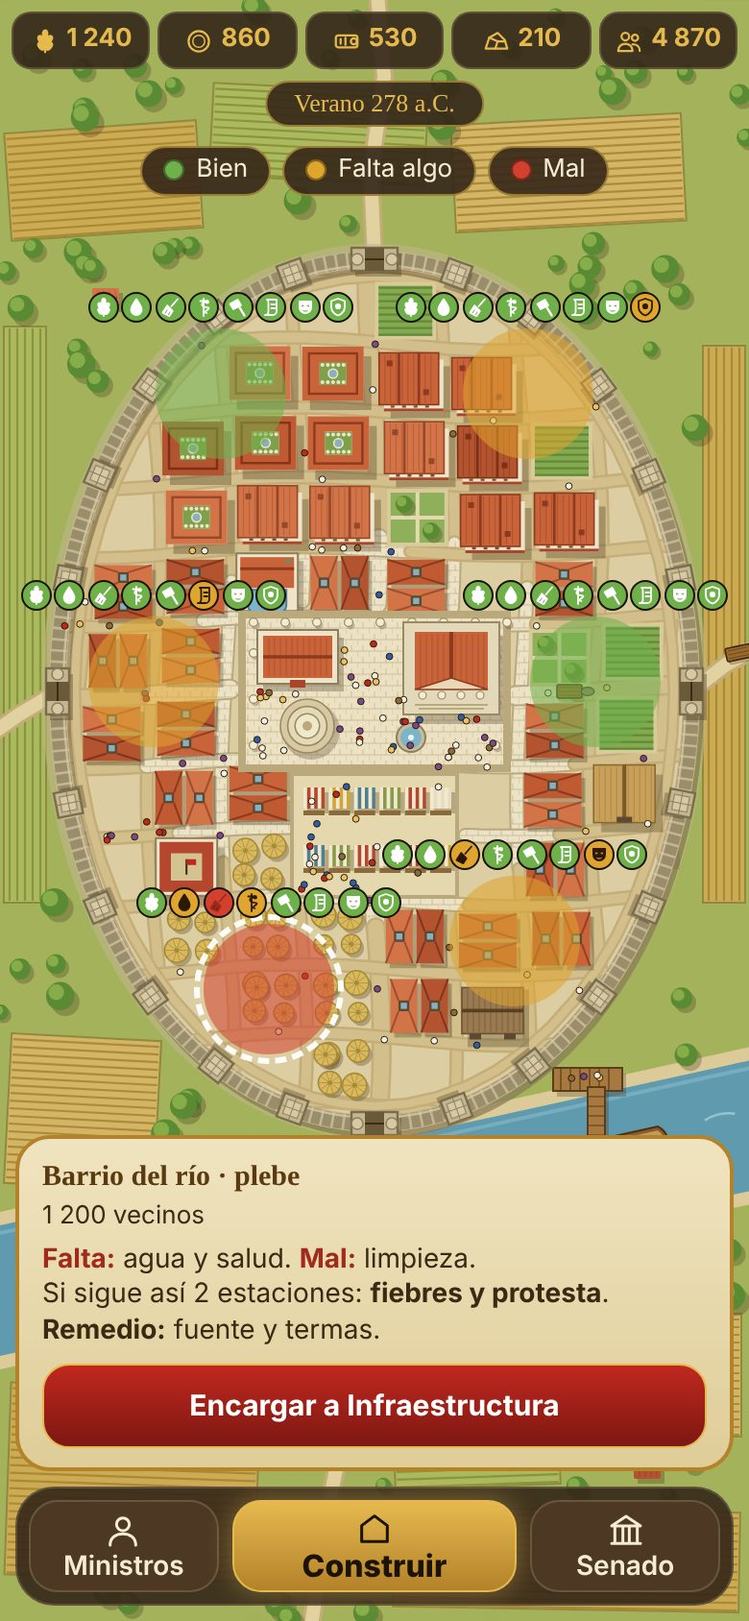
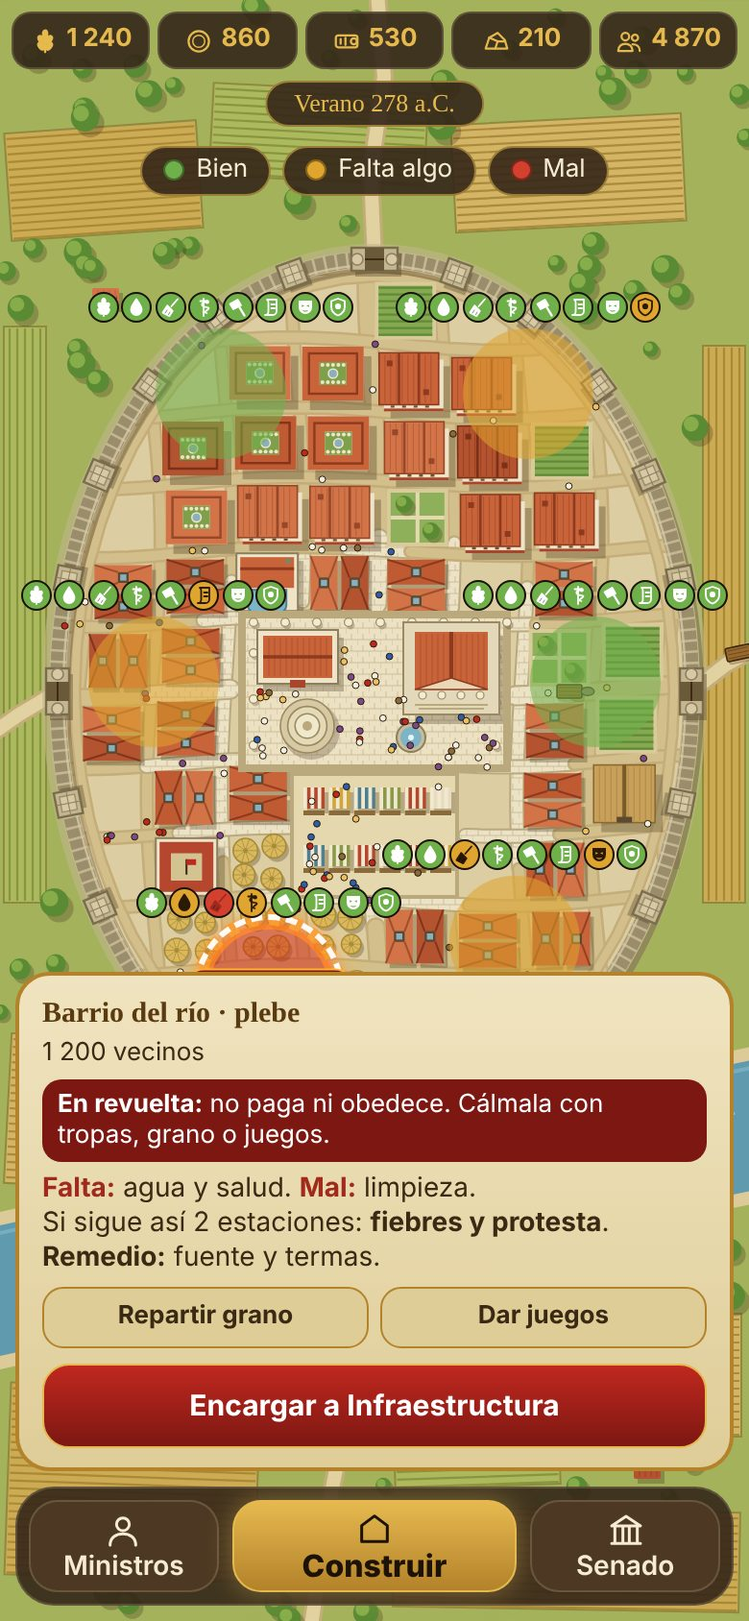
CD0b: estilo «3D real desde arriba» y revuelta (en curso)
Claude-Session: https://claude.ai/code/session_01QiKC379x4ZCv2Zx3uPswf5

Changed region(s): [[0.0, 0.5545, 0.9846, 0.8318], [0.9231, 0.8009, 0.9538, 0.8318]]

diff --git a/gobierno/maquetas/ciudad-nueva-concurso/maqueta/render.js b/gobierno/maquetas/ciudad-nueva-concurso/maqueta/render.js
@@ -1,0 +1,245 @@
+/* Estilo «Maqueta de museo»: la ciudad de ESCENA levantada en 3D con three.js (el de js/vendor), geometría por código.
+   Cámara cenital fija (mirando recta hacia abajo), perspectiva moderada: lo alto se ve de lado hacia los bordes.
+   Sol bajo con sombras. Casi todo va en InstancedMesh para pocas llamadas de dibujo. */
+import * as THREE from '../../../../js/vendor/three.module.min.js';
+
+const W = 390, H = 844;
+let sem = 4242; const R = () => (sem = sem * 16807 % 2147483647) / 2147483647;
+const rad = d => d * Math.PI / 180;
+
+/* ---------- geometrías de partida (todas con la base en y=0) ---------- */
+function malla(caras) { // caras: [[a,b,c,pista, uvA,uvB,uvC]] ; se orienta cada triángulo según su pista (normal hacia fuera)
+  const pos = [], uv = [];
+  for (const [a, b, c, n, ua, ub, uc] of caras) {
+    const e1 = [b[0] - a[0], b[1] - a[1], b[2] - a[2]], e2 = [c[0] - a[0], c[1] - a[1], c[2] - a[2]];
+    const nx = e1[1] * e2[2] - e1[2] * e2[1], ny = e1[2] * e2[0] - e1[0] * e2[2], nz = e1[0] * e2[1] - e1[1] * e2[0];
+    const flip = nx * n[0] + ny * n[1] + nz * n[2] < 0, t = flip ? [a, c, b] : [a, b, c], u = flip ? [ua, uc, ub] : [ua, ub, uc];
+    for (const p of t) pos.push(...p); for (const q of u) uv.push(...(q || [0, 0]));
+  }
+  const g = new THREE.BufferGeometry(); g.setAttribute('position', new THREE.Float32BufferAttribute(pos, 3)); g.setAttribute('uv', new THREE.Float32BufferAttribute(uv, 2)); g.computeVertexNormals(); return g;
+}
+const quad = (a, b, c, d, n, ua, ub, uc, ud) => [[a, b, c, n, ua, ub, uc], [a, c, d, n, ua, uc, ud]];
+// tejado a dos aguas: cumbrera a lo largo de x, ancho 1 (z), alto 1. Las faldas llevan uv para las hileras de teja.
+const GABLE = malla([
+  ...quad([-.5, 0, -.5], [.5, 0, -.5], [.5, 1, 0], [-.5, 1, 0], [0, 1, -1], [0, 0], [3, 0], [3, 1], [0, 1]),
+  ...quad([-.5, 0, .5], [-.5, 1, 0], [.5, 1, 0], [.5, 0, .5], [0, 1, 1], [0, 0], [0, 1], [3, 1], [3, 0]),
+  [[-.5, 0, -.5], [-.5, 1, 0], [-.5, 0, .5], [-1, 0, 0]], [[.5, 0, -.5], [.5, 0, .5], [.5, 1, 0], [1, 0, 0]]]);
+// tejado a cuatro aguas
+const HIP = malla([
+  ...quad([-.5, 0, -.5], [.5, 0, -.5], [.25, 1, 0], [-.25, 1, 0], [0, 1, -1], [0, 0], [3, 0], [2.4, 1], [.6, 1]),
+  ...quad([-.5, 0, .5], [-.25, 1, 0], [.25, 1, 0], [.5, 0, .5], [0, 1, 1], [0, 0], [.6, 1], [2.4, 1], [3, 0]),
+  [[-.5, 0, -.5], [-.25, 1, 0], [-.5, 0, .5], [-1, 1, 0], [0, 0], [.5, 1], [1, 0]], [[.5, 0, -.5], [.5, 0, .5], [.25, 1, 0], [1, 1, 0], [0, 0], [1, 0], [.5, 1]]]);
+// compluvio: tejado que se hunde hacia el hueco central (atrios y domus). Falda exterior de 0 a 1; el borde del hueco queda a 0.3
+function compluvio(h) {
+  const o = [[-.5, -.5], [.5, -.5], [.5, .5], [-.5, .5]], i = o.map(([x, z]) => [x * 2 * h, z * 2 * h]), c = [];
+  for (let k = 0; k < 4; k++) {
+    const k2 = (k + 1) % 4, a = o[k], b = o[k2], p = i[k], q = i[k2], mx = (a[0] + b[0]) / 2, mz = (a[1] + b[1]) / 2;
+    c.push(...quad([a[0], 1, a[1]], [b[0], 1, b[1]], [q[0], .3, q[1]], [p[0], .3, p[1]], [-mx, 1, -mz], [0, 0], [3, 0], [3, 1], [0, 1]));
+    c.push(...quad([a[0], 0, a[1]], [b[0], 0, b[1]], [b[0], 1, b[1]], [a[0], 1, a[1]], [mx, 0, mz], [0, 0], [3, 0], [3, .3], [0, .3]));
+  }
+  return malla(c);
+}
+const caja = new THREE.BoxGeometry(1, 1, 1).translate(0, .5, 0);
+const cil = (n = 12) => new THREE.CylinderGeometry(1, 1, 1, n).translate(0, .5, 0);
+const cono = new THREE.ConeGeometry(1, 1, 10).translate(0, .5, 0);
+
+function texturaTeja() {
+  const c = document.createElement('canvas'); c.width = c.height = 64; const x = c.getContext('2d');
+  x.fillStyle = '#fff'; x.fillRect(0, 0, 64, 64);
+  for (let r = 0; r < 4; r++) { x.fillStyle = 'rgba(70,25,10,.38)'; x.fillRect(0, r * 16 + 13, 64, 3); x.fillStyle = 'rgba(255,255,255,.18)'; x.fillRect(0, r * 16 + 1, 64, 2);
+    for (let k = 0; k < 4; k++) { x.fillStyle = 'rgba(70,25,10,.2)'; x.fillRect(k * 16 + (r % 2) * 8, r * 16, 1.5, 14); } }
+  const t = new THREE.CanvasTexture(c); t.wrapS = t.wrapT = THREE.RepeatWrapping; t.colorSpace = THREE.SRGBColorSpace; t.anisotropy = 4; return t;
+}
+function texturaHierba() {
+  const c = document.createElement('canvas'); c.width = c.height = 256; const x = c.getContext('2d');
+  x.fillStyle = '#9bb05a'; x.fillRect(0, 0, 256, 256);
+  for (let i = 0; i < 900; i++) { const l = 40 + R() * 30; x.fillStyle = `hsla(${70 + R() * 25},${35 + R() * 20}%,${l}%,.35)`; const r = 2 + R() * 7; x.beginPath(); x.arc(R() * 256, R() * 256, r, 0, 7); x.fill(); }
+  const t = new THREE.CanvasTexture(c); t.wrapS = t.wrapT = THREE.RepeatWrapping; t.repeat.set(30, 30); t.colorSpace = THREE.SRGBColorSpace; t.anisotropy = 4; return t;
+}
+
+export function dibujarCiudad(E, host) {
+  const { CX, CY, RX, RY } = E;
+  const X = x => x - CX, Z = y => y - CY; // plano de la escena -> mundo (x derecha, z hacia abajo de la pantalla)
+  const renderer = new THREE.WebGLRenderer({ antialias: true, powerPreference: 'high-performance' });
+  renderer.setPixelRatio(Math.min(window.devicePixelRatio || 1, 2)); renderer.setSize(W, H);
+  renderer.shadowMap.enabled = true; renderer.shadowMap.type = THREE.PCFSoftShadowMap;
+  renderer.toneMapping = THREE.ACESFilmicToneMapping; renderer.toneMappingExposure = 1.05;
+  host.appendChild(renderer.domElement);
+  const scene = new THREE.Scene(); const FONDO = new THREE.Color('#e6d2a8'); scene.background = FONDO;
+
+  /* ---- cámara: cenital recta, perspectiva moderada ---- */
+  const cam = new THREE.PerspectiveCamera(42, W / H, 20, 6000); cam.up.set(0, 0, -1);
+  const T = new THREE.Vector3(0, 0, 0);
+  const colocar = d => { cam.position.set(T.x, T.y + d, T.z); cam.lookAt(T); cam.updateMatrixWorld(); cam.updateProjectionMatrix(); };
+  const proy = (x, y, z) => { const v = new THREE.Vector3(x, y, z).project(cam); return [(v.x + 1) * W / 2, (1 - v.y) * H / 2]; };
+  let D = 900;
+  for (let it = 0; it < 4; it++) {
+    for (D = 400; D < 4000; D += 5) { colocar(D); let mn = 1e9, mx = -1e9; for (let a = 0; a < 360; a += 10) { const p = proy((RX + 6) * Math.cos(rad(a)), 24, RY * Math.sin(rad(a)))[0]; mn = Math.min(mn, p); mx = Math.max(mx, p); } if (mx - mn <= 368) break; }
+    const sc = (proy(0, 0, 100)[1] - proy(0, 0, 0)[1]) / 100; T.z += (proy(0, 10, 0)[1] - 408) / sc;
+  }
+  colocar(D); T.x = 0;
+  scene.fog = new THREE.Fog(FONDO, D * 1.15, D * 2.4);
+
+  /* ---- luces: sol bajo de tarde, cálido ---- */
+  scene.add(new THREE.HemisphereLight('#fff0d2', '#8c7050', 1.05));
+  const sol = new THREE.DirectionalLight('#ffd49a', 3.4); sol.position.set(-330, 190, 250); sol.target.position.set(0, 0, 60);
+  sol.castShadow = true; sol.shadow.mapSize.set(4096, 4096); sol.shadow.bias = -0.0006; sol.shadow.normalBias = 0.5; sol.shadow.radius = 2.5;
+  const sc2 = sol.shadow.camera; sc2.left = -420; sc2.right = 420; sc2.top = 470; sc2.bottom = -470; sc2.near = 50; sc2.far = 1400;
+  scene.add(sol, sol.target);
+
+  /* ---- materiales ---- */
+  const mBase = new THREE.MeshStandardMaterial({ color: '#fff', roughness: .9 });
+  const mTeja = new THREE.MeshStandardMaterial({ color: '#fff', roughness: .8, map: texturaTeja(), side: THREE.DoubleSide });
+  const mLiso = (c, r = .9, o = {}) => new THREE.MeshStandardMaterial(Object.assign({ color: c, roughness: r }, o));
+  const mTejaPlano = new THREE.MeshStandardMaterial({ color: '#fff', roughness: .85, side: THREE.DoubleSide });
+
+  /* ---- lotes instanciados ---- */
+  const lotes = [];
+  function lote(geo, mat, max, cast = true) {
+    const m = new THREE.InstancedMesh(geo, mat, max); m.count = 0; m.castShadow = cast; m.receiveShadow = true; m.frustumCulled = false;
+    const o = new THREE.Object3D(), c = new THREE.Color();
+    m.poner = (x, y, z, sx, sy, sz, ry, col) => { o.position.set(x, y, z); o.scale.set(sx, sy, sz); o.rotation.set(0, ry || 0, 0); o.updateMatrix(); m.setMatrixAt(m.count, o.matrix); m.setColorAt(m.count, c.set(col)); m.count++; };
+    scene.add(m); lotes.push(m); return m;
+  }
+  const jit = (hex, dh = .015, dl = .05) => { const c = new THREE.Color(hex), h = {}; c.getHSL(h); c.setHSL(h.h + (R() - .5) * dh, h.s, Math.max(0, Math.min(1, h.l + (R() - .5) * dl))); return c; };
+  const TEJA = ['#c9683e', '#bd5b34', '#d27749', '#b4522f'], ENL = ['#eadcb8', '#e2cfa4', '#ecdfc4', '#dcc59a'];
+
+  /* ---- suelo ---- */
+  const hierba = new THREE.Mesh(new THREE.PlaneGeometry(5000, 5000).rotateX(-Math.PI / 2), new THREE.MeshStandardMaterial({ map: texturaHierba(), roughness: 1 }));
+  hierba.position.set(0, -.5, 0); hierba.receiveShadow = true; scene.add(hierba);
+  const interior = new THREE.Mesh(new THREE.CircleGeometry(1, 72).rotateX(-Math.PI / 2), mLiso('#dcc99c', 1)); interior.scale.set(RX, 1, RY); interior.position.y = .1; interior.receiveShadow = true; scene.add(interior);
+
+  /* ---- bandas planas: calles, caminos (una sola malla por color) ---- */
+  function cinta(grupos, col, y) {
+    const pos = [];
+    for (const { pts, ancho } of grupos) for (let i = 1; i < pts.length; i++) {
+      const a = pts[i - 1], b = pts[i]; let dx = b[0] - a[0], dz = b[1] - a[1]; const l = Math.hypot(dx, dz) || 1; dx /= l; dz /= l;
+      const nx = -dz * ancho / 2, nz = dx * ancho / 2, ex = dx * .8, ez = dz * .8, ax = X(a[0]) - ex, az = Z(a[1]) - ez, bx = X(b[0]) + ex, bz = Z(b[1]) + ez;
+      pos.push(ax + nx, y, az + nz, ax - nx, y, az - nz, bx - nx, y, bz - nz, ax + nx, y, az + nz, bx - nx, y, bz - nz, bx + nx, y, bz + nz);
+    }
+    const g = new THREE.BufferGeometry(); g.setAttribute('position', new THREE.Float32BufferAttribute(pos, 3)); g.setAttribute('normal', new THREE.Float32BufferAttribute(pos.map((v, k) => k % 3 === 1 ? 1 : 0), 3));
+    const m = new THREE.Mesh(g, mLiso(col, 1)); m.receiveShadow = true; scene.add(m);
+  }
+  cinta(E.calles.filter(c => c.tipo === 'tierra'), '#c4a977', .3);
+  cinta(E.camino.map(c => ({ pts: c.pts, ancho: 8 })), '#c9ae7c', .25);
+  cinta(E.calles.filter(c => c.tipo === 'empedrada'), '#cdc3aa', .5);
+
+  /* ---- río, orillas y puente ---- */
+  const ang = -Math.atan2(-.22, 1), RLEN = 1500, rc = [0, Z(E.rio(195))];
+  const banda = (ancho, col, y, rough, ex = {}) => { const m = new THREE.Mesh(new THREE.PlaneGeometry(RLEN, ancho).rotateX(-Math.PI / 2), mLiso(col, rough, ex)); m.position.set(0, y, rc[1]); m.rotation.y = ang; m.receiveShadow = true; scene.add(m); return m; };
+  banda(2 * (E.RIO_W + 7), '#d4c08c', .2, 1); banda(2 * E.RIO_W, '#4d93b3', .45, .22, { metalness: .15 });
+  const carga = (x, z, sx, sy, sz, ry, col, y0 = 0) => { const m = new THREE.Mesh(caja, mLiso(col, .9)); m.position.set(x, y0, z); m.scale.set(sx, sy, sz); m.rotation.y = ry || 0; m.castShadow = m.receiveShadow = true; scene.add(m); return m; };
+  { const p = E.puente, zc = Z((p.y0 + p.y1) / 2), l = p.y1 - p.y0;
+    carga(0, zc, p.w, 2.2, l, 0, '#b9ab88', .9); carga(-p.w / 2 + .8, zc, 1.6, 2.4, l, 0, '#a99b78', 3.1); carga(p.w / 2 - .8, zc, 1.6, 2.4, l, 0, '#a99b78', 3.1);
+    for (const dz of [-.3, 0, .3]) carga(0, zc + dz * l, p.w - 2, 4, 4, 0, '#a99b78', -.2); }
+  { const q = E.muelle.quay, p = E.muelle.pier; carga(X(q.x + q.w / 2), Z(q.y + q.h / 2), q.w, 3.2, q.h, 0, '#b4a584'); carga(X(p.x + p.w / 2), Z(p.y + p.h / 2), p.w, 1.6, p.h, 0, '#8d6a3f', .8); }
+  // barcos: casco puntiagudo extruido
+  for (const b of E.barcos) {
+    const s = new THREE.Shape(); const l = b.l / 2, w = b.w / 2; s.moveTo(-l, -w * .8); s.lineTo(l - 8, -w); s.lineTo(l, 0); s.lineTo(l - 8, w); s.lineTo(-l, w * .8); s.closePath();
+    const hull = new THREE.Mesh(new THREE.ExtrudeGeometry(s, { depth: 4, bevelEnabled: false }).rotateX(-Math.PI / 2), mLiso('#8a5a2c', .85)); hull.position.set(X(b.x), .1, Z(b.y)); hull.rotation.y = -rad(b.rot); hull.castShadow = hull.receiveShadow = true; scene.add(hull);
+    const dk = new THREE.Mesh(new THREE.ExtrudeGeometry(s, { depth: .6, bevelEnabled: false }).rotateX(-Math.PI / 2).scale(.82, 1, .72), mLiso('#c9a468', .9)); dk.position.set(X(b.x), 4.1, Z(b.y)); dk.rotation.y = hull.rotation.y; dk.receiveShadow = true; scene.add(dk);
+    if (b.vela) { const mast = new THREE.Mesh(caja, mLiso('#5b3d1e')); mast.scale.set(1, 20, 1); mast.position.set(X(b.x), 4, Z(b.y)); mast.castShadow = true; scene.add(mast);
+      const vela = new THREE.Mesh(new THREE.PlaneGeometry(14, 14), mLiso('#efe6cf', .95, { side: THREE.DoubleSide })); vela.position.set(X(b.x), 15, Z(b.y)); vela.rotation.y = hull.rotation.y + Math.PI / 2; vela.castShadow = true; scene.add(vela); }
+  }
+
+  /* ---- campos, huertos y jardines ---- */
+  const PAL = [['#dcb95e', '#c9a64a'], ['#92b055', '#7c9b45'], ['#bb9058', '#a87d48']];
+  const tiras = lote(caja, mBase, 900, false);
+  function campo(x, y, w, h, rot, pal, vert, filas) {
+    const cx = X(x + w / 2), cz = Z(y + h / 2), ry = -rad(rot || 0), lado = vert ? w : h, n = filas || Math.max(2, Math.round(lado / 5)), paso = lado / n;
+    tiras.poner(cx, 0, cz, w, .5, h, ry, '#7d6a3f');
+    for (let k = 0; k < n; k++) { const off = -lado / 2 + paso * (k + .5), lx = vert ? off : 0, lz = vert ? 0 : off, c = Math.cos(ry), s = Math.sin(ry);
+      tiras.poner(cx + lx * c + lz * s, .5, cz - lx * s + lz * c, vert ? paso * .72 : w - 1, 1.1, vert ? h - 1 : paso * .72, ry, pal[k % 2]); }
+  }
+  for (const c of E.campos) campo(c.x, c.y, c.w, c.h, c.rot, PAL[c.col], c.vert);
+  for (const h of E.huertos) campo(h.x, h.y, h.w, h.h, 0, ['#6c9c3e', '#55862f'], false, 5);
+  for (const j of E.jardines) { campo(j.x, j.y, j.w, j.h, 0, ['#8fbf5c', '#7fb04c'], false, 4); }
+
+  /* ---- vivienda ---- */
+  const cuerpos = lote(caja, mBase, 400), tejaD = lote(GABLE, mTeja, 300), tejaH = lote(HIP, mTeja, 60), comp = lote(compluvio(.18), mTeja, 80), comp2 = lote(compluvio(.26), mTeja, 30);
+  const chozaC = lote(cil(10), mBase, 60), chozaT = lote(cono, mBase, 60), vent = lote(caja, mBase, 400, false), agua = lote(caja, mLiso('#fff', .15, { metalness: .1 }), 80, false);
+  const gableSobre = (cx, y, cz, w, h, alto, col, lado = 1.06, mt = tejaD) => { const largo = h > w; mt.poner(cx, y, cz, (largo ? h : w) * lado, alto, (largo ? w : h) * lado, largo ? Math.PI / 2 : 0, col); };
+  for (const c of E.casas) {
+    if (c.tipo === 'choza') { const x = X(c.x), z = Z(c.y); chozaC.poner(x, 0, z, c.r, 4, c.r, 0, '#d9c8a0'); chozaT.poner(x, 3.6, z, c.r * 1.3, c.r * 1.25 + 2.6, c.r * 1.3, 0, jit('#d6b95e', .03, .1)); continue; }
+    const cx = X(c.x + c.w / 2), cz = Z(c.y + c.h / 2), w = c.w, h = c.h, te = jit(TEJA[c.c % 4]);
+    if (c.tipo === 'atrio') { cuerpos.poner(cx, 0, cz, w, 5, h, 0, ENL[c.c % 4]); comp.poner(cx, 5, cz, w * 1.05, 3.4, h * 1.05, 0, te); agua.poner(cx, 5.2, cz, w * .3, .3, h * .3, 0, '#5aa2c4'); }
+    else if (c.tipo === 'rica') { cuerpos.poner(cx, 0, cz, w, 6, h, 0, ENL[c.c % 4]); comp2.poner(cx, 6, cz, w * 1.04, 3.2, h * 1.04, 0, te); agua.poner(cx, 6.2, cz, w * .36, .3, h * .36, 0, '#5aa2c4'); for (const [sx, sz] of [[-1, -1], [1, -1], [1, 1], [-1, 1]]) cuerpos.poner(cx + sx * w * .27, 6, cz + sz * h * .27, 1.6, 2.4, 1.6, 0, '#efe6d0'); }
+    else if (c.tipo === 'insula') {
+      for (let k = 0; k < 3; k++) { cuerpos.poner(cx, k * 5.5, cz, w * (k ? 1.03 : 1), 5.3, h * (k ? 1.03 : 1), 0, jit(ENL[c.c % 4], .02, .06)); for (let j = -1; j <= 1; j++) vent.poner(cx + j * 9, k * 5.5 + 1.3, cz + h / 2 + .05, 3.2, 2.6, .6, 0, '#4a3a2a'); }
+      gableSobre(cx, 16.5, cz, w, h, 4, te);
+    }
+  }
+  for (const p of E.publicos) {
+    const cx = X(p.x + p.w / 2), cz = Z(p.y + p.h / 2), w = p.w, h = p.h;
+    if (p.tipo === 'granero') { cuerpos.poner(cx, 0, cz, w, 9, h, 0, '#cfa75f'); gableSobre(cx, 9, cz, w, h, 6, jit('#c19a4a')); }
+    else if (p.tipo === 'almacen') { cuerpos.poner(cx, 0, cz, w, 6, h, 0, '#9d7d55'); gableSobre(cx, 6, cz, w, h, 4, jit('#7e6240')); }
+    else if (p.tipo === 'cuartel') { cuerpos.poner(cx, 0, cz, w, 7, h, 0, '#e3d4b2'); comp2.poner(cx, 7, cz, w * 1.04, 3, h * 1.04, 0, jit('#b4402c')); agua.poner(cx, 7.2, cz, w * .36, .3, h * .36, 0, '#7a6a55'); cuerpos.poner(cx + w * .3, 7, cz - h * .3, .6, 9, .6, 0, '#4a3a2a'); cuerpos.poner(cx + w * .3 + 2, 14.5, cz - h * .3, 4, 2.5, .3, 0, '#c0281f'); }
+    else { cuerpos.poner(cx, 0, cz, w, 10, h, 0, '#eadfc6'); const d = new THREE.Mesh(new THREE.SphereGeometry(1, 20, 10, 0, 2 * Math.PI, 0, Math.PI / 2), mLiso('#d6c7a5', .8)); d.scale.set(w * .32, 8, h * .32); d.position.set(cx, 10, cz); d.castShadow = d.receiveShadow = true; scene.add(d);
+      cuerpos.poner(cx - w * .34, 10, cz, w * .24, 4, h * .5, 0, '#e2d3b0'); cuerpos.poner(cx + w * .34, 10, cz, w * .24, 4, h * .5, 0, '#e2d3b0'); }
+  }
+  for (const c of E.casasRurales) { const cx = X(c.x + c.w / 2), cz = Z(c.y + c.h / 2); cuerpos.poner(cx, 0, cz, c.w, 5, c.h, 0, ENL[c.c % 4]); gableSobre(cx, 5, cz, c.w, c.h, 4, jit(TEJA[c.c % 4])); }
+
+  /* ---- foro y mercado ---- */
+  const f = E.foro, pav = lote(caja, mBase, 10, false);
+  pav.poner(X(f.x + f.w / 2), 0, Z(f.y + f.h / 2), f.w, .9, f.h, 0, '#ddd3bc'); pav.poner(X(E.mercado.x + E.mercado.w / 2), 0, Z(E.mercado.y + E.mercado.h / 2), E.mercado.w, .8, E.mercado.h, 0, '#d4c7a8');
+  { const c = f.curia, cx = X(c.x + c.w / 2), cz = Z(c.y + c.h / 2);
+    cuerpos.poner(cx, .9, cz, c.w + 4, 2.5, c.h + 4, 0, '#cfc4aa'); cuerpos.poner(cx, 3.4, cz, c.w, 14, c.h, 0, '#d9b48a'); tejaH.poner(cx, 17.4, cz, c.w * 1.08, 6, c.h * 1.12, 0, '#a8492c'); vent.poner(cx, 3.4, cz + c.h / 2 + .05, 6, 9, .7, 0, '#3a2a1c'); }
+  { const m = new THREE.Mesh(new THREE.LatheGeometry([[2, .9], [2, 1.2], [6, 1.2], [6, 2.6], [10, 2.6], [10, 4.0], [14, 4.0], [14.4, 4.0], [14.4, .6], [2, .6]].map(([r, y]) => new THREE.Vector2(r, y)), 36), mLiso('#d8cdb3', .9, { side: THREE.DoubleSide }));
+    m.position.set(X(f.comicio.x), 0, Z(f.comicio.y)); m.castShadow = m.receiveShadow = true; scene.add(m);
+    const tr = new THREE.Mesh(new THREE.CylinderGeometry(3.2, 3.2, 1.8, 14), mLiso('#a98c63', .9)); tr.position.set(X(f.comicio.x), 1.4, Z(f.comicio.y)); tr.castShadow = true; scene.add(tr); }
+  { const t = f.templo, pr = t.porche, x0 = t.x, z0 = t.y, w = t.w, h = pr.y + pr.h - t.y, cx = X(x0 + w / 2), cz = Z(z0 + h / 2), pod = 8, cel = 14;
+    cuerpos.poner(cx, 0, cz, w, pod, h, 0, '#dcd1b6');
+    cuerpos.poner(cx, 0, Z(z0 + h + 3), 20, 5.5, 6, 0, '#d4c9ae'); cuerpos.poner(cx, 0, Z(z0 + h + 6), 20, 2.8, 6, 0, '#d4c9ae');
+    cuerpos.poner(cx, pod, Z(z0 + 15), w - 8, cel, 30, 0, '#ecdfc4');
+    vent.poner(cx, pod, Z(z0 + 30) + .1, 6, 10, .8, 0, '#3a2a1c');
+    const col = lote(cil(10), mBase, 80), cx0 = x0 + 4, paso = (w - 8) / 5;
+    for (let i = 0; i < 6; i++) col.poner(X(cx0 + i * paso), pod, Z(pr.y + 5), 1.7, cel, 1.7, 0, '#f1e8d2');
+    for (let k = 0; k < 3; k++) for (const sx of [x0 + 2.5, x0 + w - 2.5]) col.poner(X(sx), pod, Z(z0 + 12 + k * 12), 1.6, cel, 1.6, 0, '#f1e8d2');
+    cuerpos.poner(cx, pod + cel, cz, w + 1, 2, h - 2, 0, '#e9dec6');
+    tejaD.poner(cx, pod + cel + 2, cz, h - 2, 8, w + 3, Math.PI / 2, '#b9532f');
+    const tri = new THREE.Shape(); tri.moveTo(-w / 2 - 1, 0); tri.lineTo(w / 2 + 1, 0); tri.lineTo(0, 7.6); tri.closePath();
+    const fr = new THREE.Mesh(new THREE.ExtrudeGeometry(tri, { depth: 1.2, bevelEnabled: false }), mLiso('#efe6d0', .85)); fr.position.set(cx, pod + cel + 2, Z(z0 + h - 1.2)); fr.castShadow = fr.receiveShadow = true; scene.add(fr); }
+  { const fu = f.fuente, m = new THREE.Mesh(new THREE.CylinderGeometry(fu.r, fu.r + .6, 2.4, 20), mLiso('#cfc5ac')); m.position.set(X(fu.x), 1.2, Z(fu.y)); m.castShadow = m.receiveShadow = true; scene.add(m);
+    const a = new THREE.Mesh(new THREE.CylinderGeometry(fu.r - 1, fu.r - 1, .3, 20), mLiso('#4f9cc2', .15)); a.position.set(X(fu.x), 2.3, Z(fu.y)); scene.add(a);
+    const ch = new THREE.Mesh(new THREE.ConeGeometry(.8, 5, 8), mLiso('#bfe0ee', .2)); ch.position.set(X(fu.x), 4.6, Z(fu.y)); scene.add(ch); }
+  const colF = lote(cil(10), mBase, 60);
+  for (const [x, y] of f.columnas) colF.poner(X(x), .9, Z(y), 1.2, 8, 1.2, 0, '#eadfc6');
+  { const m = E.mercado, post = lote(caja, mBase, 60, false); // puestos con toldo
+    for (const p of m.puestos) { const cx = X(p.x + p.w / 2), cz = Z(p.y + p.h / 2); cuerpos.poner(cx, .8, cz, p.w - 3, 2, p.w - 3, 0, '#9a7448'); post.poner(cx, 5.2, cz, p.w, .7, p.h, 0, p.color); for (const sx of [-1, 1]) for (const sz of [-1, 1]) post.poner(cx + sx * (p.w / 2 - .5), .8, cz + sz * (p.h / 2 - .5), .5, 4.4, .5, 0, '#6b4a28'); } }
+
+  /* ---- muralla de toba con torres cuadradas ---- */
+  const M = E.muralla, mur = lote(caja, mBase, 140), almenas = lote(caja, mBase, 900), torr = lote(caja, mBase, 200);
+  const pe = t => [RX * Math.cos(t), RY * Math.sin(t)], puertasT = [0, 90, 180, 270].map(rad);
+  const cerca = t => puertasT.some(p => Math.abs(Math.atan2(Math.sin(t - p), Math.cos(t - p))) < rad(4.2));
+  const N = 120;
+  for (let i = 0; i < N; i++) {
+    const t0 = i / N * 2 * Math.PI, t1 = (i + 1) / N * 2 * Math.PI, tm = (t0 + t1) / 2; if (cerca(tm)) continue;
+    const a = pe(t0), b = pe(t1), dx = b[0] - a[0], dz = b[1] - a[1], l = Math.hypot(dx, dz), ry = -Math.atan2(dz, dx), mx = (a[0] + b[0]) / 2, mz = (a[1] + b[1]) / 2;
+    mur.poner(mx, 0, mz, l + 1.2, 16, M.grosor, ry, jit('#c3b490', .01, .05));
+    const nx = dz / l, nz = -dx / l; // normal exterior (sentido horario en pantalla)
+    for (let k = 0; k < 3; k++) { const u = (k - 1) * l / 3.2; almenas.poner(mx + dx / l * u + nx * 3, 16, mz + dz / l * u + nz * 3, 3, 2.6, 2, ry, '#b7a883'); almenas.poner(mx + dx / l * u - nx * 3, 16, mz + dz / l * u - nz * 3, 3, 2.6, 2, ry, '#b7a883'); }
+  }
+  const torre = (x, z, ry, s = 13, alto = 26) => { torr.poner(x, 0, z, s, alto, s, ry, '#b9a982'); torr.poner(x, alto, z, s + 2.5, 2.4, s + 2.5, ry, '#a89a76'); torr.poner(x, alto + 2.4, z, s * .55, 2.4, s * .55, ry, '#c9bb96'); };
+  for (const t of M.torres) torre(X(t.x), Z(t.y), -rad(t.ang));
+  for (const p of M.puertas) { const horiz = p.ang === 0, px = X(p.x), pz = Z(p.y); for (const s of [-1, 1]) torre(px + (horiz ? s * 15 : 0), pz + (horiz ? 0 : s * 17), 0, 14, 30); torr.poner(px, 17, pz, horiz ? 30 : 12, 9, horiz ? 12 : 34, 0, '#b0a07a'); }
+
+  /* ---- árboles y carros ---- */
+  const tron = lote(cil(6), mBase, 100), copa = lote(new THREE.IcosahedronGeometry(1, 1).translate(0, 0, 0), mLiso('#fff', .9, { flatShading: true }), 100);
+  for (const a of E.arboles) { tron.poner(X(a.x), 0, Z(a.y), .9, a.r * .9, .9, 0, '#6b4a2a'); copa.poner(X(a.x), a.r * .75, Z(a.y), a.r, a.r * .78, a.r, R() * 6, jit(['#5a8c36', '#4f7f2f', '#678f3c'][Math.floor(R() * 3)], .03, .1)); }
+  const carr = lote(caja, mBase, 10); for (const c of E.carros) { carr.poner(X(c.x), 1.6, Z(c.y), 8, 2.4, 5, -rad(c.rot), '#8b5d32'); carr.poner(X(c.x), 1.2, Z(c.y), 2, 1.2, 6.4, -rad(c.rot), '#4a3220'); }
+
+  /* ---- gente: pequeños conos con cabeza ---- */
+  const gp = lote(new THREE.ConeGeometry(.9, 3, 6).translate(0, 1.5, 0), mBase, 200, true), gc = lote(new THREE.SphereGeometry(.7, 6, 4).translate(0, 3.4, 0), mLiso('#fff', .8), 200, false);
+  for (const p of E.gente) { gp.poner(X(p.x), .5, Z(p.y), 1, 1, 1, 0, p.c); gc.poner(X(p.x), .5, Z(p.y), 1, 1, 1, 0, '#e0b790'); }
+
+  lotes.forEach(m => { m.instanceMatrix.needsUpdate = true; if (m.instanceColor) m.instanceColor.needsUpdate = true; });
+  // tejados: el color por instancia ya lleva el tinte; la textura solo marca las hileras
+
+  /* ---- primer cuadro, con medidas ---- */
+  window.__escena = scene; window.__r = renderer; window.__cam = cam;
+  const t0 = performance.now(); renderer.render(scene, cam); renderer.getContext().finish();
+  const ms = performance.now() - t0, info = renderer.info.render;
+  const medidas = { triangulos: info.triangles, llamadas: info.calls, ms_primer_cuadro: Math.round(ms), camara_dist: Math.round(D) };
+  console.log('MAQUETA ' + JSON.stringify(medidas)); window.medidasMaqueta = medidas;
+  return { proyectar: (x, y) => proy(X(x), 0, Z(y)), medidas, renderer };
+}

diff --git a/gobierno/maquetas/ciudad-nueva-concurso/comun/ui.js b/gobierno/maquetas/ciudad-nueva-concurso/comun/ui.js
@@ -14,6 +14,7 @@
     culto_ocio: g('<path d="M5 5h14v7a7 7 0 0 1-14 0z M8.200 9.200l2.800 1.300-2.800 1.200z M15.800 9.200l-2.800 1.300 2.800 1.200z M8.800 15c1.800 2.200 4.600 2.200 6.400 0-2 .6-4.400.6-6.400 0z" fill="currentColor" fill-rule="evenodd" stroke="none"/>'),
     orden: g('<path d="M12 3l7 2.500v6c0 4.500-3 7.500-7 9-4-1.500-7-4.500-7-9v-6z"/><circle cx="12" cy="11" r="2.200" fill="currentColor"/>')
   };
+  const PUNO = g('<path d="M8 11V6.500a1.500 1.500 0 0 1 3 0V10M11 9.500V5a1.500 1.500 0 0 1 3 0v5M14 9.500V6a1.500 1.500 0 0 1 3 0v6c0 4-2 7-5.500 7S6 16.500 6 13.500V12a1.500 1.500 0 0 1 2-1.400" fill="currentColor"/><path d="M3 21h18"/>');
   const FAM = {
     prin: '<path d="M4 20V10l8-6 8 6v10zM9 20v-6h6v6"/>',
     infra: '<path d="M3 17h18M3 11h18M6 11V7M12 11V7M18 11V7M3 21h18"/>',
@@ -43,6 +44,7 @@
     c: sv(g('<path d="M4 20V10l8-6 8 6v10z"/>', 'stroke-width="2"')),
     s: sv(g('<path d="M3 20h18M5 20V9M10 20V9M14 20V9M19 20V9M3 9l9-6 9 6z"/>', 'stroke-width="2"'))
   };
+  let PROY = null; // opcional: (x,y)=>[sx,sy], para vistas en perspectiva
   const E = () => window.ESCENA;
   const icono = (k, estado) => `<div class="ic ${estado}" title="${k}" style="background:var(--ui-${estado})">${sv(ICONOS[k])}</div>`;
   const top = () => `<div class="top">${RES.map(([n, v, d]) => `<div class="r" title="${n}">${sv(d)}<b>${v}</b></div>`).join('')}</div><div class="fecha">${E().fecha}</div>`;
@@ -50,7 +52,7 @@
   const listaTxt = (b, est) => { const n = E().NECESIDADES.filter(([k]) => b.necesidades[k] === est).map(([, t]) => t.toLowerCase().replace('alimentación', 'comida')); return n.length ? n.join(' y ') : ''; };
 
   function ciudad() {
-    const etq = (x, y, h, c = '') => `<div class="etq ${c}" style="left:${x}px;top:${y}px">${h}</div>`;
+    const etq = (x, y, h, c = '') => { if (PROY) [x, y] = PROY(x, y); return `<div class="etq ${c}" style="left:${x}px;top:${y}px">${h}</div>`; };
     return top() + etq(195, 360, '<b>Foro</b>', 'foro') + E().barrios.map(b => etq(b.centro[0], b.centro[1] + 8, b.nombre, "bar")).join('') + barra(false);
   }
   function construir() {
@@ -60,23 +62,26 @@
       <div class="fam">${fam.map(([k, n]) => `<div class="f ${k === 'infra' ? 'on' : ''}"><div class="c">${sv(g(FAM[k], 'stroke-width="1.8"'))}</div><span>${n}</span></div>`).join('')}</div></div>` + barra(true);
   }
   function necesidades() {
-    const e = E(), rio = e.barrios.find(b => b.id === 'rio');
+    const e = E(), rio = e.barrios.find(b => b.id === 'rio'); rio.revuelta = true; // dureza «Duro»: mal mucho tiempo = revuelta
     let o = top() + `<div class="leyenda"><span><i style="background:var(--ui-bien)"></i>Bien</span><span><i style="background:var(--ui-falta)"></i>Falta algo</span><span><i style="background:var(--ui-mal)"></i>Mal</span></div>`;
     for (const b of e.barrios) {
-      const [x, y] = b.centro, r = b.radio, w = 8 * 16 + 7 * 1.5, lx = Math.max(3, Math.min(387 - w, x - w / 2));
-      o += `<div class="halo e-${b.estado}" style="left:${x - r}px;top:${y - r}px;width:${2 * r}px;height:${2 * r}px"></div>`;
-      if (b === rio) o += `<div class="halo sel" style="left:${x - r - 5}px;top:${y - r - 5}px;width:${2 * r + 10}px;height:${2 * r + 10}px"></div>`;
-      o += `<div class="iconos" style="left:${lx}px;top:${y - r - 19}px">${e.NECESIDADES.map(([k]) => icono(k, b.necesidades[k])).join('')}</div>`;
+      const [x, y] = b.centro, r = b.radio, w = 8 * 16 + 7 * 1.5, hl = (rr) => { if (!PROY) return `left:${x - rr}px;top:${y - rr}px;width:${2 * rr}px;height:${2 * rr}px`; const [cx, cy] = PROY(x, y), rx = Math.abs(PROY(x + rr, y)[0] - cx), ry = Math.abs(PROY(x, y + rr)[1] - cy); return `left:${cx - rx}px;top:${cy - ry}px;width:${2 * rx}px;height:${2 * ry}px`; };
+      const [ax, ay] = PROY ? PROY(x, y - r) : [x, y - r], lx = Math.max(3, Math.min(387 - w, ax - w / 2)), rev = b.revuelta;
+      o += `<div class="halo e-${b.estado}${rev ? ' revuelta' : ''}" style="${hl(r)}"></div>`;
+      if (b === rio) o += `<div class="halo sel" style="${hl(r + 5)}"></div>`;
+      if (rev) { const [cx, cy] = PROY ? PROY(x, y) : [x, y]; o += `<div class="rev" style="left:${cx}px;top:${cy}px">${sv(PUNO)}Revuelta</div>`; }
+      o += `<div class="iconos" style="left:${lx}px;top:${ay - 19}px">${e.NECESIDADES.map(([k]) => icono(k, b.necesidades[k])).join('')}</div>`;
     }
     const falta = listaTxt(rio, 'falta'), mal = listaTxt(rio, 'mal');
     o += `<div class="ficha"><h3>${rio.nombre} · ${rio.clase}</h3><div class="vec">1 200 vecinos</div>
-      <p>${falta ? `<b class="mal">Falta:</b> ${falta}. ` : ''}${mal ? `<b class="mal">Mal:</b> ${mal}.` : ''}<br>Si sigue así 2 estaciones: <b>fiebres y protesta</b>.<br><b>Remedio:</b> fuente y termas.</p>
+      ${rio.revuelta ? '<div class="revtxt"><b>En revuelta:</b> no paga ni obedece. Cálmala con tropas, grano o juegos.</div>' : ''}<p>${falta ? `<b class="mal">Falta:</b> ${falta}. ` : ''}${mal ? `<b class="mal">Mal:</b> ${mal}.` : ''}<br>Si sigue así 2 estaciones: <b>fiebres y protesta</b>.<br><b>Remedio:</b> fuente y termas.</p>${rio.revuelta ? '<div class="chicos"><button class="btn2">Repartir grano</button><button class="btn2">Dar juegos</button></div>' : ''}
       <button class="btn">Encargar a Infraestructura</button></div>` + barra(false);
     return o;
   }
   window.montarUI = function (op = {}) {
     const modo = op.modo || new URLSearchParams(location.search).get('p') || 'ciudad';
     const host = document.getElementById(op.destino || 'ui');
+    PROY = typeof op.proyectar === 'function' ? op.proyectar : null;
     host.innerHTML = ({ ciudad, construir, necesidades }[modo] || ciudad)();
     return modo;
   };

diff --git a/gobierno/maquetas/ciudad-nueva-concurso/maqueta/index.html b/gobierno/maquetas/ciudad-nueva-concurso/maqueta/index.html
@@ -1,0 +1,27 @@
+<!doctype html>
+<html lang="es"><head><meta charset="utf-8"><meta name="viewport" content="width=device-width,initial-scale=1">
+<title>Maqueta de museo</title>
+<link rel="stylesheet" href="../comun/ui.css">
+<style>
+/* Tinte del estilo: piedra gris cálida y bronce */
+:root{--ui-fondo:rgba(62,56,50,.9);--ui-fondo2:rgba(92,84,74,.92);--ui-texto:#f2ece0;--ui-acento:#d3a063;--ui-acento2:#9a672f;--ui-borde:rgba(211,160,99,.6);--ui-linea:rgba(255,246,228,.16);
+--ui-tinta-acento:#22150a;--ui-papel:#dcd4c4;--ui-papel2:#c2b8a3;--ui-tinta:#33281b;--ui-fuente:system-ui,-apple-system,'Segoe UI',Roboto,sans-serif}
+/* tilt-shift barato: franjas con desenfoque que se funden con la imagen, arriba y abajo (bajo la interfaz) */
+.ts{position:absolute;left:0;right:0;pointer-events:none;z-index:1}
+.ts.a1{top:0;height:230px;backdrop-filter:blur(2.5px);-webkit-backdrop-filter:blur(2.5px);-webkit-mask-image:linear-gradient(#000,transparent);mask-image:linear-gradient(#000,transparent)}
+.ts.a2{top:0;height:110px;backdrop-filter:blur(3px);-webkit-backdrop-filter:blur(3px);-webkit-mask-image:linear-gradient(#000,transparent);mask-image:linear-gradient(#000,transparent)}
+.ts.b1{bottom:0;height:250px;backdrop-filter:blur(2.5px);-webkit-backdrop-filter:blur(2.5px);-webkit-mask-image:linear-gradient(transparent,#000);mask-image:linear-gradient(transparent,#000)}
+.ts.b2{bottom:0;height:120px;backdrop-filter:blur(3px);-webkit-backdrop-filter:blur(3px);-webkit-mask-image:linear-gradient(transparent,#000);mask-image:linear-gradient(transparent,#000)}
+</style></head>
+<body><div id="app"><div id="lienzo"></div><div id="ui"></div></div>
+<script src="../comun/escena.js"></script>
+<script src="../comun/ui.js"></script>
+<script type="module">
+import { dibujarCiudad } from './render.js';
+const l = document.getElementById('lienzo');
+const api = dibujarCiudad(window.ESCENA, l);
+for (const c of ['a1', 'a2', 'b1', 'b2']) { const d = document.createElement('div'); d.className = 'ts ' + c; l.appendChild(d); }
+montarUI({ proyectar: api.proyectar });
+window.listo = true;
+</script>
+</body></html>

diff --git a/gobierno/maquetas/ciudad-nueva-concurso/comun/ui.css b/gobierno/maquetas/ciudad-nueva-concurso/comun/ui.css
@@ -62,3 +62,11 @@ button{font:inherit;color:inherit;border:0;background:none;padding:0}
 .ficha .btn{display:block;width:100%;margin-top:8px;border-radius:14px;padding:11px 8px;font-size:15px;font-weight:700;text-align:center;border:1px solid var(--ui-acento);background:linear-gradient(var(--ui-rojo),var(--ui-rojo2));color:#fff}
 .mal{color:#a02a1c;font-weight:700}
 .etq.bar{font-size:11px;padding:0 7px;opacity:.88}
+/* revuelta (Barrio del río con dureza «Duro») */
+.halo.revuelta{background:rgba(212,40,20,.62);border-color:#ff7a1f;box-shadow:0 0 10px #ff4a10,0 0 20px #ffb02e;opacity:.85}
+.halo.revuelta::after{content:"";position:absolute;inset:-9px;border-radius:50%;background:repeating-conic-gradient(#ff9a2a 0 9deg,transparent 9deg 18deg);-webkit-mask:radial-gradient(closest-side,transparent 82%,#000 84%,#000 100%);mask:radial-gradient(closest-side,transparent 82%,#000 84%,#000 100%)}
+.rev{position:absolute;transform:translate(-50%,-50%);z-index:3;display:flex;align-items:center;gap:3px;background:#7d1712;color:#fff;border:1.5px solid #ffb02e;border-radius:99px;padding:1px 8px 1px 4px;font-size:13px;font-weight:800;white-space:nowrap;pointer-events:none}
+.rev svg{width:16px;height:16px}
+.ficha .revtxt{background:#7d1712;color:#fff;border-radius:10px;padding:5px 8px;font-size:13px;line-height:1.25;margin:0 0 5px}
+.ficha .chicos{display:grid;grid-template-columns:1fr 1fr;gap:6px;margin-top:6px}
+.ficha .btn2{border-radius:11px;padding:6px 4px;font-size:13px;font-weight:700;border:1px solid var(--ui-acento2);background:var(--ui-papel2);color:var(--ui-tinta)}
